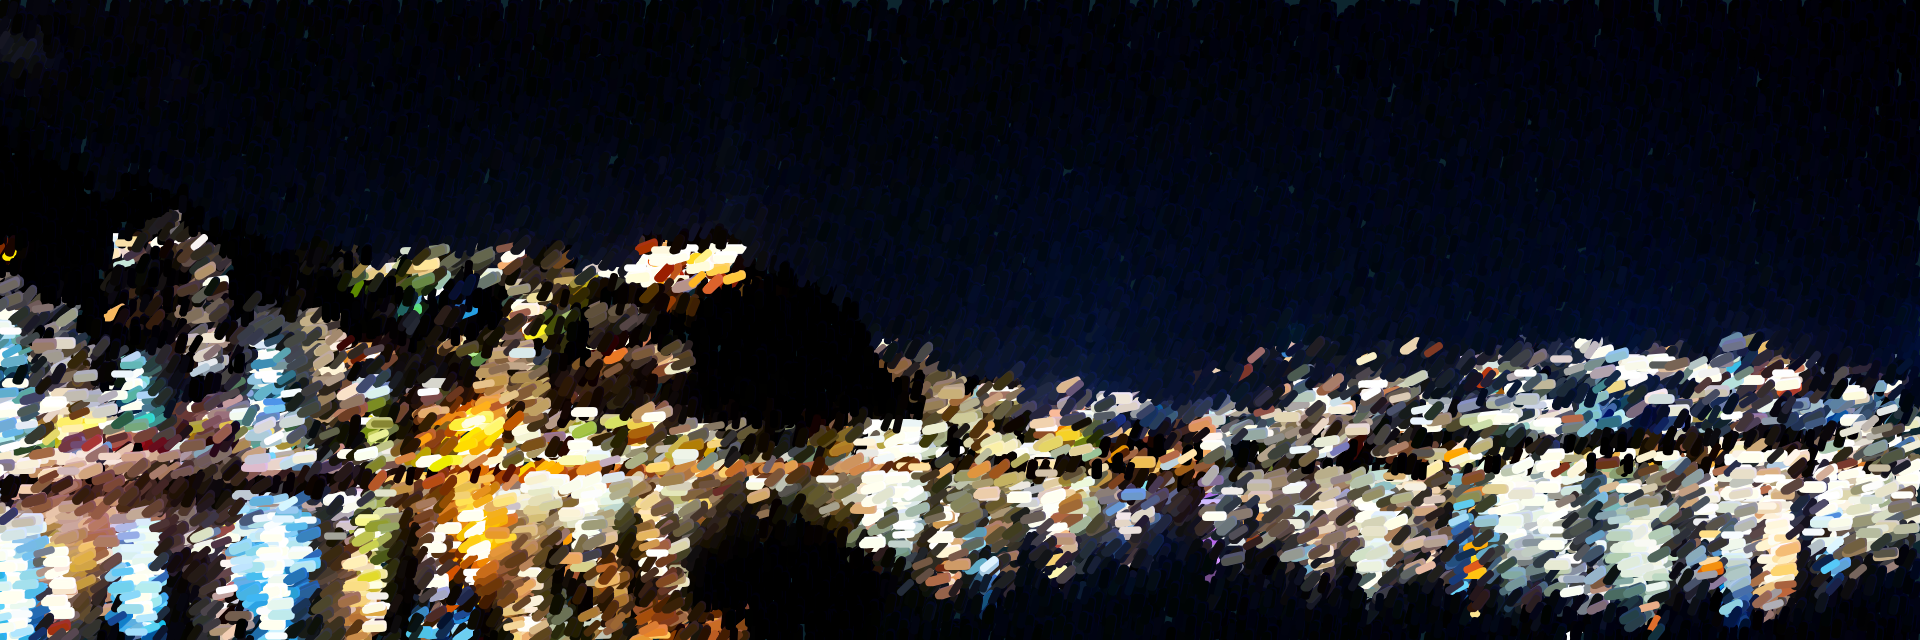
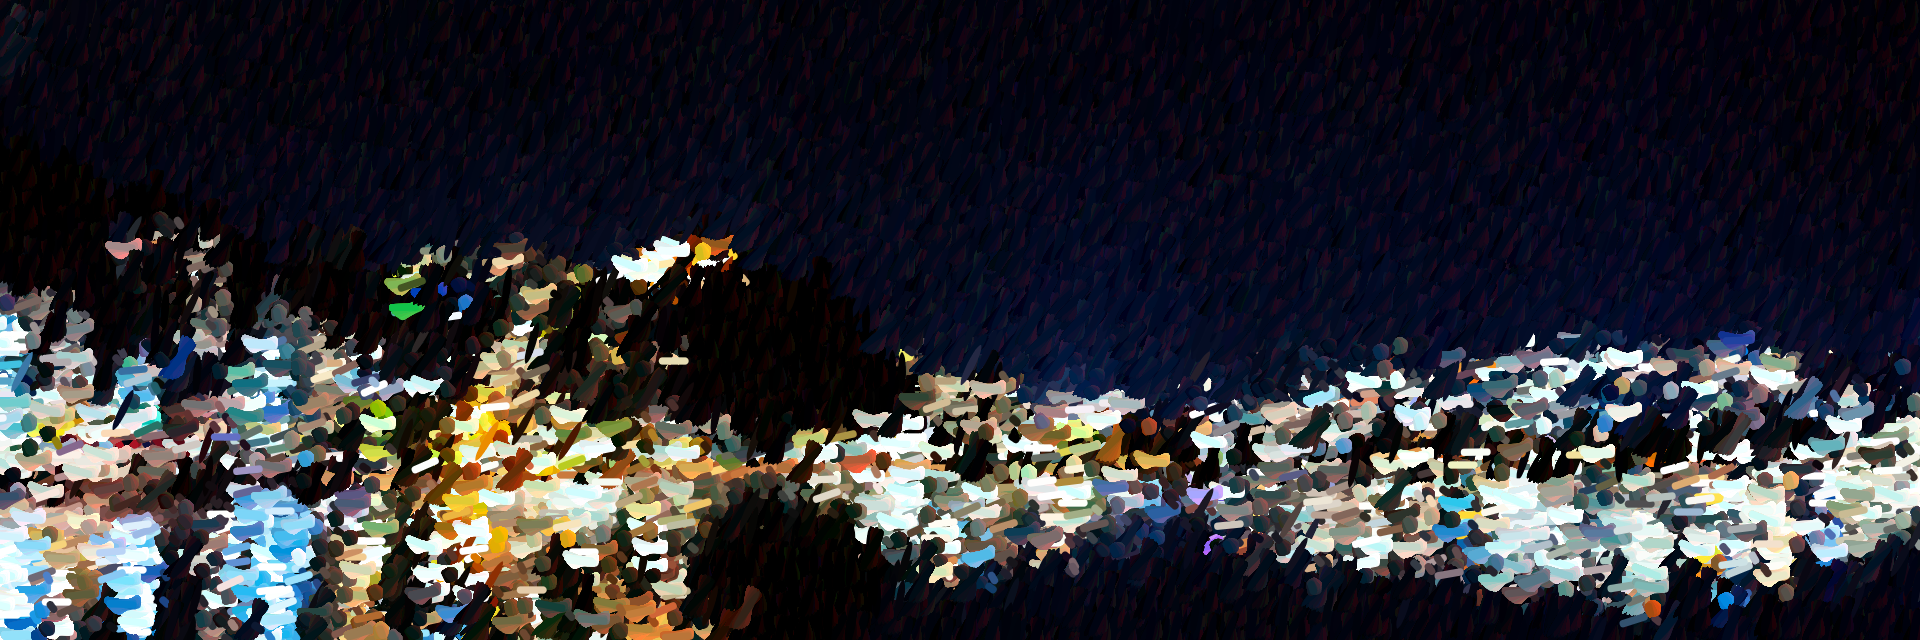
Update brush styling, fix recursion

diff --git a/sketch.js b/sketch.js
@@ -3,9 +3,9 @@ let maskImg=null;
 let renderCounter=0;
 
 // change these three lines as appropiate
-let sourceFile = "input_2.jpg";
-let maskFile   = "mask_2.png";
-let outputFile = "output_2.png";
+let sourceFile = "input_3.jpg";
+let maskFile   = "mask_3.png";
+let outputFile = "output_3.png";
 
 function preload() {
   sourceImg = loadImage(sourceFile);
@@ -18,6 +18,7 @@ function setup () {
 
   imageMode(CENTER);
   angleMode(DEGREES);
+  rectMode(CENTER);
   noStroke();
   background('#0C252E');
   sourceImg.loadPixels();
@@ -25,7 +26,7 @@ function setup () {
 }
 
 function draw () {
-  for(let i=0;i<4000;i++) {
+  for(let i=0;i<5000;i++) {
     let x = floor(random(sourceImg.width));
     let y = floor(random(sourceImg.height));
     let pix = sourceImg.get(x, y);
@@ -33,7 +34,7 @@ function draw () {
     noFill();
 
     var maskMap = map(mask[0], 0, 255, 0, 90);
-    brushStroke(x, y, pix, maskMap, 3);
+    brushStroke(x, y, pix, maskMap, mask, 3);
   }
   renderCounter = renderCounter + 1;
   if(renderCounter > 10) {
@@ -49,22 +50,48 @@ function keyTyped() {
   }
 }
 
-function brushStroke(x, y, c, mask, level){ //Recursive function
-  var size = map(mask, 0, 255, 8, 6);
-  var length = map(mask, 0, 255, 10, 25);
-
-  stroke(c);
-  strokeWeight(size);
+function brushStroke(x, y, c, maskMap, mask, level){ //Recursive function
+  var maskArr = mask[0]; // if/else couldn't read passed 'mask' value
+  var size = map(maskMap, 0, 255, 8, 6);
+  var length = map(maskMap, 0, 255, 10, 25);
   
-  push();
-    translate(x, y); //move origin to pixel
-    rotate(mask);
-    line(0, 0, 0, length);
-  pop();
+  if(maskArr < 90){
+    noStroke();
+    fill(c);
+    
+    push();
+      translate(x, y); //move origin to pixel
+      rotate(maskMap);
+      ellipse(0, 0, size, length*(size/2));
+    pop();
+  }else if(maskArr < 180){
+    noStroke();
+    fill(c);
 
-  if(level>1 && (random(0, 1)>0.4)){ //adds chance to fail
+    push();
+      translate(x, y); //move origin to pixel
+      rotate(maskMap);
+      rect(0, 0, length, size, size);
+    pop();
+  }else{
+    noFill();
+    stroke(c);
+    strokeWeight(size);
+    
+    push();
+      translate(x, y); //move origin to pixel
+      rotate(maskMap);
+      line(0, 0, 0, length+size);
+    pop();
+  }
+
+  if(level > 0 && (random(0, 1) > 0.4)){ //adds chance to fail
     level-=1;
-    brushStroke(x, y-(length/size), color(c[0], c[1], c[2]+length), mask, level);
-    brushStroke(x-(length/size), y, color(c[0], c[1], c[2]-length), mask, level);
+    brushStroke(x, y-(length/size), color(red(c), green(c), blue(c)+length), maskMap-size, mask, level);
+    brushStroke(x-(length/size), y, color(red(c), green(c), blue(c)-length), maskMap+size, mask, level);
+    brushStroke(x, y-(length/size), color(red(c), green(c)+length, blue(c)), maskMap-size, mask, level);
+    brushStroke(x-(length/size), y, color(red(c), green(c)-length, blue(c)-length), maskMap+size, mask, level);
+    brushStroke(x, y-(length/size), color(red(c)+length, green(c), blue(c)), maskMap-size, mask, level);
+    brushStroke(x-(length/size), y, color(red(c)-length, green(c), blue(c)), maskMap+size, mask, level);
   }
 }

diff --git a/README.md b/README.md
@@ -4,11 +4,12 @@ Craig Springett | 300441513
 
 ---
 
-Current render takes a little while to complete!
+#### Render can take about a minute to complete
 
 | Date		 | Update Information											  |
 |:----------:|----------------------------------------------------------------|
-| 09/06/2020 | My design strategy has slightly changed. As I am basing my images off of Vincent van Gogh, I knew I wanted to emulate his brush strokes in some way. This meant to me that each pixel, or failing that, area, needed to have some form of movement to it. This meant my mask needed to be a little more detailed than just solid colours, so I looked at the "Oil Painting" filter in Photoshop and thought if I desaturated the original image, that could still be used as a mask, and the 'brightness' can be used to dictate the rotation of the custom pixel. Playing with mapping and referencing Van Gogh's work, I decided that the brighter the spot, the closer to 90° the line should be, additionally the pixel itself is a line that is shorter and slightly fatter the darker it is, and thinner and longer the brighter it is (according to the mask). In order to make just one line rotate and not compound on each other, I had to use push/pop with a translate, replacing the origin of the canvas with the pixel location, and drawing the line at the new origin. One issue I am currently having is that due to the way the recusrion	is functioning, there are a lot of errors in the console due to the color() function and my modification of it at each 'level'.							  |
+| 10/06/2020 | I realised I should link the original paintings I was emulating with my photographs. <br> In order, the images taken are: [Starry Night over the Rhone](https://artsandculture.google.com/asset/starry-night/uQE3XORhSK37Dw) - [Starry Night](https://artsandculture.google.com/asset/the-starry-night-vincent-van-gogh/bgEuwDxel93-Pg) - [Country Road in Provence](https://artsandculture.google.com/asset/country-road-in-provence-by-night-vincent-van-gogh/4wEXP9j2v6hpYw) <br> I have continued work on my code as well, including fixing the errors, thanks to Lucy and Michael, and now the recursive calls add a slight lighter and darker edge to the strokes, helping to sell the paint strokes in my opinion. Additionally, a slightly different shape is drawn for different light levels (though still individually rotated based on the 'brightness' of the mask). I am still playing with the size of the brush strokes as it still feels little too blobby to me which isn't exactly emulating Van Gogh's style.						 |
+| 09/06/2020 | My design strategy has slightly changed. As I am basing my images off of Vincent van Gogh, I knew I wanted to emulate his brush strokes in some way. This meant to me that each pixel, or failing that, area, needed to have some form of movement to it. This meant my mask needed to be a little more detailed than just solid colours, so I looked at the "Oil Painting" filter in Photoshop and thought if I desaturated the original image, that could still be used as a mask, and the 'brightness' can be used to dictate the rotation of the custom pixel. Playing with mapping and referencing Van Gogh's work, I decided that the brighter the spot, the closer to 90° the line should be, additionally the pixel itself is a line that is shorter and slightly fatter the darker it is, and thinner and longer the brighter it is (according to the mask). In order to make just one line rotate and not compound on each other, I had to use push/pop with a translate, replacing the origin of the canvas with the pixel location, and drawing the line at the new origin. One issue I am currently having is that due to the way the recursion	is functioning, there are a lot of errors in the console due to the color() function and my modification of it at each 'level'.							  |
 | 08/06/2020 | Today I started modifying the code to actually create my custom pixel. I have an idea to try using recursion to create it, but will need to set aside more time to investigate that. I have also attempted to create a more detailed mask of input3, and upped the vibrancy as I felt it was lacking some colour. Updated purview_helper as well to hopefully fix that issue.	  |
 | 03/06/2020 | I had an idea to use my photos that are based off Vincent van Gogh paintings, especially if I'm able to create a painter-ly effect with my custom pixel. Spent today formatting the photos and creating the 3-tone masks for them each as each image has a fore/middle/background. Have yet to touch the code but will be doing that over the next few days.						  |
 | 27/05/2020 | First tests with Project 3. I knew that I just wanted to try working with a screenshot I took in Elite: Dangerous a few weeks ago of a sun. I also figured, I could just desaturate and slightly modify the levels to make it an appropriate mask, and the end result turns out pretty okay. At this time I haven't looked into anything else too much.								   |
